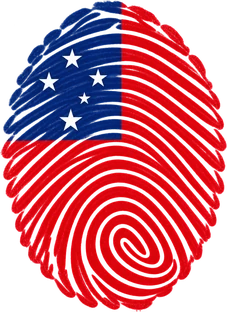
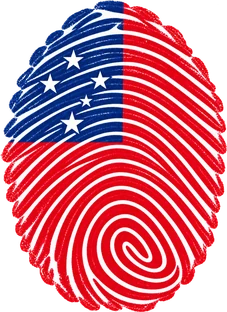
Samoa: updated flag thumbprint on panel image headers

diff --git a/samoa-research-database-master.html b/samoa-research-database-master.html
@@ -5573,7 +5573,7 @@
 <script src="js/country-news.js?v=eaef5c50" data-src="data/samoa-master-news.json" data-flag="wsm" data-split-photos="1" data-people="Samoan" data-place="Samoa" data-foot-under="1" defer></script>
 <script src="js/position-display-field.js?v=fc3380d8" defer></script>
 <script src="js/scholar-card-tabs.js?v=efda3195" defer></script>
-<script src="js/samoa-panel-hero.js?v=2eeca996" defer></script>
+<script src="js/samoa-panel-hero.js?v=4f724e69" defer></script>
 <script src="js/samoa-country-flags.js?v=20d60c3d" defer></script>
 <script src="js/samoa-text-contrast.js?v=84f6a4da" defer></script>
 </body>

diff --git a/js/samoa-panel-hero.js b/js/samoa-panel-hero.js
@@ -3,7 +3,7 @@
    so every script that updates a title or hint keeps working. */
 (function () {
   'use strict';
-  var FLAG = 'img/samoa/flag-fingerprint.webp?v=2';
+  var FLAG = 'img/samoa/flag-fingerprint.webp?v=3';
   var TITLE = '.db-section__label, .db-panel__title, .db-leaderboard__title, .db-items-header > h3';
   var HINT = '.db-section__hint, .db-panel__hint, .db-leaderboard__hint';
   function flag() {
